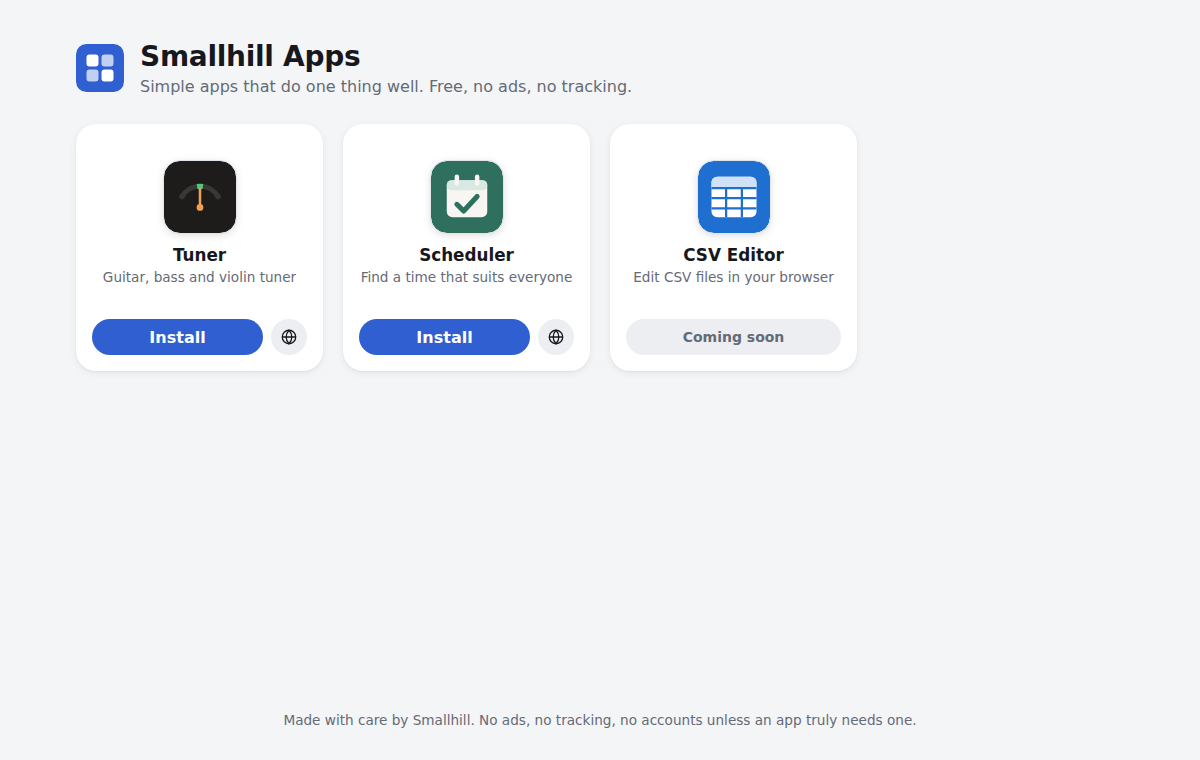
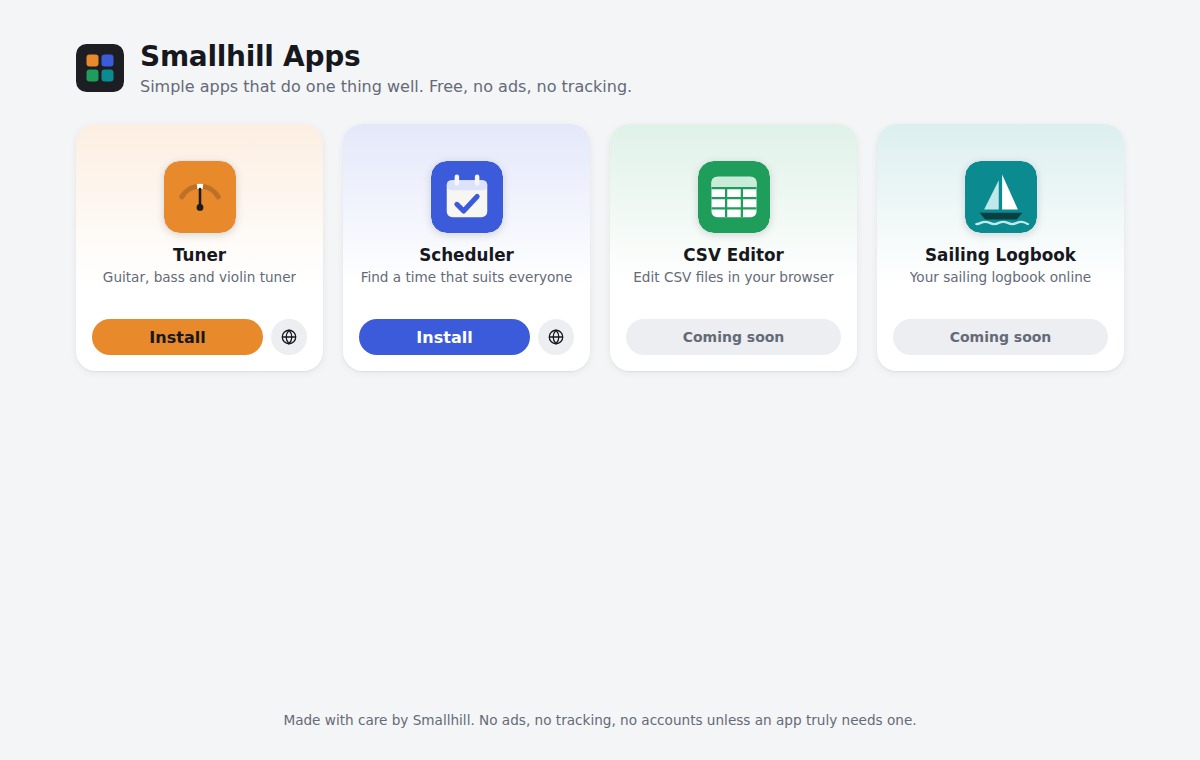
🎨 feat(portal): use each app's signature colour for tiles and Install buttons
Claude-Session: https://claude.ai/code/session_018H1CHLad89qXWLEkoPwUt1

diff --git a/apps/portal/src/app/apps.ts b/apps/portal/src/app/apps.ts
@@ -5,6 +5,7 @@ export interface AppInfo {
 	name: Text;
 	tagline: Text;
 	description: Text;
+	color: string;
 	icon: string;
 	screenshots: string[];
 	url?: string;
@@ -20,6 +21,7 @@ export const APPS: AppInfo[] = [
 			en: "Tune your guitar, bass or violin with the microphone of your phone or computer. Pick a string or let the tuner detect it, switch to chromatic mode for any instrument and adjust the A4 reference. Sound is analyzed on your device only and nothing is recorded. Works offline.",
 			cs: "Nalaďte kytaru, baskytaru nebo housle pomocí mikrofonu v telefonu či počítači. Vyberte strunu, nebo ji nechte rozpoznat automaticky, pro jiné nástroje přepněte na chromatický režim a upravte ladění A4. Zvuk se zpracovává jen ve vašem zařízení a nic se nenahrává. Funguje i offline.",
 		},
+		color: "#e8892b",
 		icon: "apps/tuner/icon.svg",
 		screenshots: ["apps/tuner/screenshot-1.webp", "apps/tuner/screenshot-2.webp"],
 		url: "/tuner/",
@@ -33,6 +35,7 @@ export const APPS: AppInfo[] = [
 			en: "Propose a few times, share the link and let everyone answer Yes, If need be or No. The best time is highlighted as answers come in. No sign-up for you or your friends, and polls are deleted 60 days after their last time slot.",
 			cs: "Navrhněte několik termínů, pošlete odkaz a nechte ostatní odpovědět Ano, Kdyžtak nebo Ne. Nejlepší termín se zvýrazní, jak přibývají odpovědi. Žádná registrace pro vás ani pro ostatní a ankety se mažou 60 dní po posledním termínu.",
 		},
+		color: "#3b5bdb",
 		icon: "apps/scheduler/icon.svg",
 		screenshots: ["apps/scheduler/screenshot-1.webp", "apps/scheduler/screenshot-2.webp"],
 		url: "/scheduler/",
@@ -46,6 +49,7 @@ export const APPS: AppInfo[] = [
 			en: "A spreadsheet-like editor for CSV files that runs entirely in your browser. Open and save CSV, sort and filter columns, use the formula bar, transform numbers, dates and markup, undo and redo, all in light or dark mode. Your files never leave your device.",
 			cs: "Editor CSV souborů ve stylu tabulkového procesoru, který běží celý v prohlížeči. Otevírejte a ukládejte CSV, řaďte a filtrujte sloupce, používejte řádek vzorců, převádějte čísla, data a značkování, vracejte změny zpět, ve světlém i tmavém režimu. Vaše soubory nikdy neopustí zařízení.",
 		},
+		color: "#1e9e5a",
 		icon: "apps/csveditor/icon.svg",
 		screenshots: ["apps/csveditor/screenshot-1.webp"],
 		listed: true,
@@ -58,6 +62,7 @@ export const APPS: AppInfo[] = [
 			en: "Keep your sailing logbook online, with maps, photos and records of every voyage. The logbook is stored as files on your own disk, not on a server, and you can export it to PDF or Excel.",
 			cs: "Veďte svou jachtařskou knížku online, s mapami, fotkami a záznamy všech plaveb. Knížka se ukládá jako soubory na váš vlastní disk, ne na server, a můžete ji exportovat do PDF nebo Excelu.",
 		},
+		color: "#0b8a8f",
 		icon: "apps/jachtarskaknizka/icon.svg",
 		screenshots: [],
 		listed: true,

diff --git a/apps/portal/src/app/app-detail/app-detail.ts b/apps/portal/src/app/app-detail/app-detail.ts
@@ -1,6 +1,7 @@
 import { ChangeDetectionStrategy, Component, computed, inject, input, output } from "@angular/core";
 import { AppActions } from "../app-actions/app-actions";
 import { AppInfo } from "../apps";
+import { onColor } from "../color";
 import { T, tr } from "../i18n";
 import { InstallService } from "../install.service";
 
@@ -9,6 +10,7 @@ import { InstallService } from "../install.service";
 	imports: [AppActions],
 	changeDetection: ChangeDetectionStrategy.OnPush,
 	templateUrl: "./app-detail.html",
+	host: { "[style.--app-color]": "app().color", "[style.--on-app-color]": "onColor(app().color)" },
 	styleUrl: "./app-detail.scss",
 })
 export class AppDetail {
@@ -17,6 +19,7 @@ export class AppDetail {
 
 	protected readonly t = T;
 	protected readonly tr = tr;
+	protected readonly onColor = onColor;
 	private readonly installer = inject(InstallService);
 	protected readonly showHelp = computed(() => this.installer.state(this.app()) === "help");
 }

diff --git a/apps/portal/src/app/app-tile/app-tile.ts b/apps/portal/src/app/app-tile/app-tile.ts
@@ -1,6 +1,7 @@
 import { ChangeDetectionStrategy, Component, input, output } from "@angular/core";
 import { AppActions } from "../app-actions/app-actions";
 import { AppInfo } from "../apps";
+import { onColor } from "../color";
 import { T, tr } from "../i18n";
 
 @Component({
@@ -8,6 +9,7 @@ import { T, tr } from "../i18n";
 	imports: [AppActions],
 	changeDetection: ChangeDetectionStrategy.OnPush,
 	templateUrl: "./app-tile.html",
+	host: { "[style.--app-color]": "app().color", "[style.--on-app-color]": "onColor(app().color)" },
 	styleUrl: "./app-tile.scss",
 })
 export class AppTile {
@@ -16,4 +18,5 @@ export class AppTile {
 
 	protected readonly t = T;
 	protected readonly tr = tr;
+	protected readonly onColor = onColor;
 }

diff --git a/apps/portal/src/styles.scss b/apps/portal/src/styles.scss
@@ -7,9 +7,7 @@
 	--border: #e1e4ea;
 	--text: #16181d;
 	--muted: #646a76;
-	--primary: #2f5fd0;
-	--primary-hover: #2651b6;
-	--primary-soft: #e3ebfb;
+	--primary: #1c1e24;
 	--on-primary: #ffffff;
 	--radius: 20px;
 	--shadow: 0 1px 2px rgba(16, 24, 40, 0.06), 0 2px 8px rgba(16, 24, 40, 0.06);
@@ -31,10 +29,8 @@
 		--border: #2c313a;
 		--text: #eef0f4;
 		--muted: #949aa6;
-		--primary: #6b95f5;
-		--primary-hover: #86a8f7;
-		--primary-soft: #1f2a44;
-		--on-primary: #0b1020;
+		--primary: #eef0f4;
+		--on-primary: #111317;
 		--shadow: 0 1px 2px rgba(0, 0, 0, 0.4);
 		--shadow-hover: 0 8px 24px rgba(0, 0, 0, 0.5);
 	}

diff --git a/apps/portal/src/app/app-detail/app-detail.scss b/apps/portal/src/app/app-detail/app-detail.scss
@@ -1,6 +1,7 @@
 :host {
 	display: block;
 	padding: 24px;
+	background: linear-gradient(color-mix(in srgb, var(--app-color) 14%, var(--surface)), var(--surface) 240px);
 }
 
 header {
@@ -57,7 +58,7 @@ h2 {
 	margin: 16px 0 0;
 	padding: 12px 14px;
 	border-radius: 12px;
-	background: var(--primary-soft);
+	background: color-mix(in srgb, var(--app-color) 14%, var(--surface));
 	font-size: 0.9rem;
 	line-height: 1.45;
 }

diff --git a/apps/portal/src/app/apps.spec.ts b/apps/portal/src/app/apps.spec.ts
@@ -14,6 +14,11 @@ describe("APPS", () => {
 		}
 	});
 
+	it("has a distinct signature colour per app", () => {
+		for (const app of APPS) expect(app.color).toMatch(/^#[0-9a-f]{6}$/);
+		expect(new Set(APPS.map((app) => app.color)).size).toBe(APPS.length);
+	});
+
 	it("uses app paths with trailing slash", () => {
 		for (const app of APPS.filter((app) => app.url)) {
 			expect(app.url).toMatch(/^\/[a-z0-9-]+\/$/);

diff --git a/apps/portal/src/app/app-actions/app-actions.scss b/apps/portal/src/app/app-actions/app-actions.scss
@@ -18,13 +18,13 @@
 	text-overflow: ellipsis;
 	border: 0;
 	border-radius: 999px;
-	background: var(--primary);
-	color: var(--on-primary);
+	background: var(--app-color, var(--primary));
+	color: var(--on-app-color, var(--on-primary));
 	font-weight: 600;
 	white-space: nowrap;
 
 	&:hover:not(:disabled) {
-		background: var(--primary-hover);
+		filter: brightness(0.92);
 	}
 
 	&:disabled {

diff --git a/apps/portal/src/app/color.ts b/apps/portal/src/app/color.ts
@@ -1,0 +1,8 @@
+export function onColor(hex: string): string {
+	const [r, g, b] = [1, 3, 5].map((i) => {
+		const c = parseInt(hex.slice(i, i + 2), 16) / 255;
+		return c <= 0.03928 ? c / 12.92 : ((c + 0.055) / 1.055) ** 2.4;
+	});
+	const luminance = 0.2126 * r + 0.7152 * g + 0.0722 * b;
+	return (luminance + 0.05) / 0.05 > 1.05 / (luminance + 0.05) ? "#16181d" : "#ffffff";
+}

diff --git a/apps/portal/src/app/app-tile/app-tile.scss b/apps/portal/src/app/app-tile/app-tile.scss
@@ -4,7 +4,7 @@
 	aspect-ratio: 1;
 	padding: 16px;
 	border-radius: var(--radius);
-	background: var(--surface);
+	background: linear-gradient(color-mix(in srgb, var(--app-color) 14%, var(--surface)), var(--surface) 65%);
 	box-shadow: var(--shadow);
 	transition:
 		transform 0.15s ease,

diff --git a/apps/portal/src/app/install.service.spec.ts b/apps/portal/src/app/install.service.spec.ts
@@ -7,6 +7,7 @@ const app: AppInfo = {
 	name: { en: "Demo", cs: "Demo" },
 	tagline: { en: "", cs: "" },
 	description: { en: "", cs: "" },
+	color: "#000000",
 	icon: "",
 	screenshots: [],
 	url: "/demo/",

diff --git a/apps/portal/CLAUDE.md b/apps/portal/CLAUDE.md
@@ -1,5 +1,5 @@
 # Portal
 
 - Home page served at the root of https://apps.smallhill.cz (baseHref `/`), no service worker so it never intercepts `/<app>/` navigations.
-- App list in `src/app/apps.ts` (`listed: false` hides an app, missing `url` = coming soon); assets in `public/apps/<id>/`.
+- App list in `src/app/apps.ts` (`color` = app signature colour from its manifest `theme_color`, tints tile and Install button; `listed: false` hides; missing `url` = coming soon); assets in `public/apps/<id>/`.
 - Install via `navigator.install(url, url)` in `src/app/install.service.ts` (manifest id = app start URL); texts EN/CS in `src/app/i18n.ts`.

diff --git a/apps/portal/README.md b/apps/portal/README.md
@@ -6,8 +6,8 @@ Browsers without `navigator.install` get a short hint on how to install the app 
 
 ## Adding an app
 
-1. Put its logo (`icon.svg`) and mobile screenshots (390×780, `.webp`) into `public/apps/<id>/`.
-2. Add an entry to `src/app/apps.ts`. Leave out `url` to show it as coming soon, set `listed: false` to hide it.
+1. Put its logo (`icon.svg`, in the app's signature colour) and mobile screenshots (390×780, `.webp`) into `public/apps/<id>/`.
+2. Add an entry to `src/app/apps.ts` with `color` set to the app's manifest `theme_color`. Leave out `url` to show it as coming soon, set `listed: false` to hide it.
 
 ## Development
 
